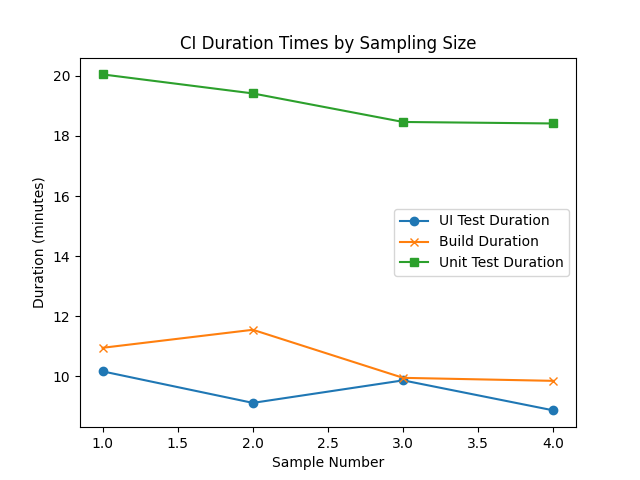
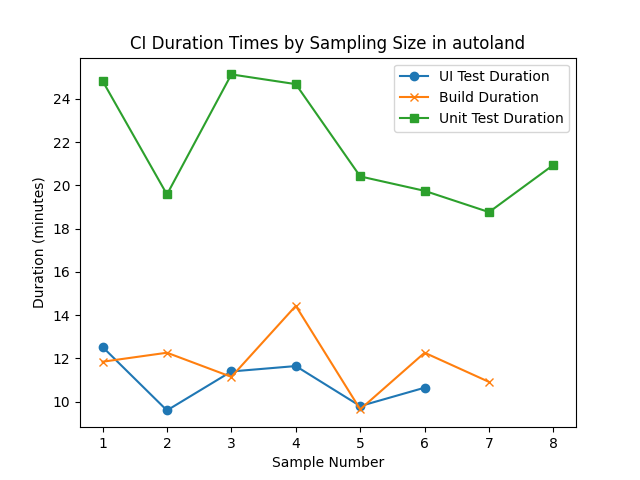
Updated legend

diff --git a/src/durations.py b/src/durations.py
@@ -2,7 +2,6 @@ import logging
 import os
 from datetime import date, datetime, timedelta
 
-import matplotlib
 import matplotlib.pyplot as plt
 import yaml
 from thclient import TreeherderClient
@@ -105,49 +104,47 @@ def main():
             elif "test-apk" in task["name"]:
                 test_durations.extend(task_data)
 
-            # Plot UI Test Durations
-            if ui_test_durations:
-                sample_number_ui = list(range(1, len(ui_test_durations) + 1))
-                ui_test_duration_times = [
-                    item["duration"] for item in ui_test_durations
-                ]
+        # Plot UI Test Durations
+        if ui_test_durations:
+            sample_number_ui = list(range(1, len(ui_test_durations) + 1))
+            ui_test_duration_times = [item["duration"] for item in ui_test_durations]
 
-                plt.plot(
-                    sample_number_ui,
-                    ui_test_duration_times,
-                    label="UI Test Duration",
-                    marker="o",
-                )
+            plt.plot(
+                sample_number_ui,
+                ui_test_duration_times,
+                label="UI Test Duration",
+                marker="o",
+            )
 
-            # Plot Build Durations
-            if build_durations:
-                sample_number_build = list(range(1, len(build_durations) + 1))
-                build_duration_times = [item["duration"] for item in build_durations]
+        # Plot Build Durations
+        if build_durations:
+            sample_number_build = list(range(1, len(build_durations) + 1))
+            build_duration_times = [item["duration"] for item in build_durations]
 
-                plt.plot(
-                    sample_number_build,
-                    build_duration_times,
-                    label="Build Duration",
-                    marker="x",
-                )
+            plt.plot(
+                sample_number_build,
+                build_duration_times,
+                label="Build Duration",
+                marker="x",
+            )
 
-            # Plot Test Durations
-            if test_durations:
-                sample_number_test = list(range(1, len(test_durations) + 1))
-                test_duration_times = [item["duration"] for item in test_durations]
+        # Plot Test Durations
+        if test_durations:
+            sample_number_test = list(range(1, len(test_durations) + 1))
+            test_duration_times = [item["duration"] for item in test_durations]
 
-                plt.plot(
-                    sample_number_test,
-                    test_duration_times,
-                    label="Unit Test Duration",
-                    marker="s",
-                )
+            plt.plot(
+                sample_number_test,
+                test_duration_times,
+                label="Unit Test Duration",
+                marker="s",
+            )
 
-            plt.title("CI Duration Times by Sampling Size")
-            plt.xlabel("Sample Number")
-            plt.ylabel("Duration (minutes)")
-            plt.legend()
-            plt.show()
+        plt.title(f"CI Duration Times by Sampling Size in {repo}")
+        plt.xlabel("Sample Number")
+        plt.ylabel("Duration (minutes)")
+        plt.legend()
+        plt.savefig("durations.png")
 
 
 if __name__ == "__main__":
